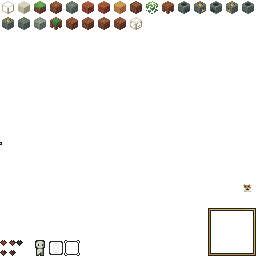
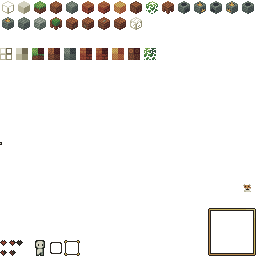
UPDATE

Changed region(s): [[0.0, 0.1875, 0.625, 0.25], [0.1875, 0.9375, 0.25, 1.0]]

diff --git a/src/renderer.cs b/src/renderer.cs
@@ -6,29 +6,32 @@
 
         update();
 
-        drawcalls = 0;
-
         c.Fill(sky);
-        drawcalls++;
         c.DrawRect(0, 0, Window.Width, Window.Height);
 
-        renderworld(c);
-
-        //c.Antialias(false);
+        if (!view3D)
+            renderworld(c);
+        else
+            render3D(c);
 
         c.Fill(Color.White);
-        //c.Font(font);
-        drawcalls++;
         c.DrawAlignedText(round(1/Time.DeltaTime)+" fps", 16, 3,3, Alignment.TopLeft);
-        drawcalls++;
         c.DrawAlignedText("seed "+seed, 16, 3,27, Alignment.TopLeft);
+    }
 
+    static void render3D(ICanvas c) {
+        var canvasShader = new CubeCanvasShader() {
+            tex = atlas,
+        };
 
+        var vertexShader = new CubeVertexShader() {
+            world = Matrix4x4.CreateRotationY(Time.TotalTime*Angle.ToRadians(60)),
+            view = Matrix4x4.CreateLookAtLeftHanded(Vector3.One,Vector3.Zero,Vector3.UnitY),
+            proj = Matrix4x4.CreatePerspectiveFieldOfViewLeftHanded(MathF.PI/3f,c.Width/(float)c.Height,1f,100f) 
+        };
 
-
-
-        drawcalls++;
-        c.DrawAlignedText(drawcalls+" drawcalls", 16, 3,51, Alignment.TopLeft);
+        c.Fill(canvasShader, vertexShader);
+        c.DrawTriangles<Vertex>(vertices);
     }
 
     static void renderworld(ICanvas c) {
@@ -49,18 +52,28 @@
                                 { world[u][v][w].lod.ApplyChanges(); world[u][v][w].appliedtex = true; }
 
                                 if(screenx>-chunklodsizex*(zoom*.5f)&&screeny>-chunklodsizey*(zoom*.5f)&&screenx<Window.Width+chunklodsizex*(zoom*.5f)&&screeny<Window.Height+chunklodsizey*(zoom*.5f)) {
-                                    drawcalls++;
                                     float bright = v*chunksize/((float)chunksize*worldsizey);
-                                    c.DrawTexture(
-                                        world[u][v][w].lod, 
-                                        new Rectangle(
-                                            screenx, screeny,
-                                            world[u][v][w].lod.Width * zoom, 
-                                            world[u][v][w].lod.Height * -zoom, 
-                                            Alignment.Center
-                                        ),
-                                        new ColorF(bright, bright, bright, 1)
-                                    );
+                                    if(hshaded)
+                                        c.DrawTexture(
+                                            world[u][v][w].lod, 
+                                            new Rectangle(
+                                                screenx, screeny,
+                                                world[u][v][w].lod.Width * zoom, 
+                                                world[u][v][w].lod.Height * -zoom, 
+                                                Alignment.Center
+                                            ),
+                                            new ColorF(bright, bright, bright, 1)
+                                        );
+                                    else
+                                        c.DrawTexture(
+                                            world[u][v][w].lod, 
+                                            new Rectangle(
+                                                screenx, screeny,
+                                                world[u][v][w].lod.Width * zoom, 
+                                                world[u][v][w].lod.Height * -zoom, 
+                                                Alignment.Center
+                                            )
+                                        );
                                 }
                             }
                         }
@@ -96,7 +109,6 @@
                                 float screenx = 1920/2+(x*6-z*6)*zoom-cam.X*size, screeny = 1080/2+(-y*6+z*3+x*3)*zoom-cam.Y*size;
 
                                 if(screenx>-size&&screeny>-size&&screenx<Window.Width+size&&screeny<Window.Height+size) {
-                                    drawcalls++;
                                     c.DrawTexture(
                                         atlas,
                                         new Rectangle(world[u][v][w].tiles[x,y,z]*16%256, 240-floor(world[u][v][w].tiles[x,y,z]/16)*16, 16, 16),

diff --git a/src/cube.cs b/src/cube.cs
@@ -1,0 +1,40 @@
+partial class farmlight {
+    static Vertex[] vertices = [
+        new Vertex(new(-0.5f, -0.5f, -0.5f), new(0.0f, 0.0f)),
+        new Vertex(new( 0.5f, -0.5f, -0.5f), new(1.0f, 0.0f)),
+        new Vertex(new( 0.5f,  0.5f, -0.5f), new(1.0f, 1.0f)),
+        new Vertex(new( 0.5f,  0.5f, -0.5f), new(1.0f, 1.0f)),
+        new Vertex(new(-0.5f,  0.5f, -0.5f), new(0.0f, 1.0f)),
+        new Vertex(new(-0.5f, -0.5f, -0.5f), new(0.0f, 0.0f)),
+        new Vertex(new(-0.5f, -0.5f,  0.5f), new(0.0f, 0.0f)),
+        new Vertex(new( 0.5f, -0.5f,  0.5f), new(1.0f, 0.0f)),
+        new Vertex(new( 0.5f,  0.5f,  0.5f), new(1.0f, 1.0f)),
+        new Vertex(new( 0.5f,  0.5f,  0.5f), new(1.0f, 1.0f)),
+        new Vertex(new(-0.5f,  0.5f,  0.5f), new(0.0f, 1.0f)),
+        new Vertex(new(-0.5f, -0.5f,  0.5f), new(0.0f, 0.0f)),
+        new Vertex(new(-0.5f,  0.5f,  0.5f), new(1.0f, 0.0f)),
+        new Vertex(new(-0.5f,  0.5f, -0.5f), new(1.0f, 1.0f)),
+        new Vertex(new(-0.5f, -0.5f, -0.5f), new(0.0f, 1.0f)),
+        new Vertex(new(-0.5f, -0.5f, -0.5f), new(0.0f, 1.0f)),
+        new Vertex(new(-0.5f, -0.5f,  0.5f), new(0.0f, 0.0f)),
+        new Vertex(new(-0.5f,  0.5f,  0.5f), new(1.0f, 0.0f)),
+        new Vertex(new( 0.5f,  0.5f,  0.5f), new(1.0f, 0.0f)),
+        new Vertex(new( 0.5f,  0.5f, -0.5f), new(1.0f, 1.0f)),
+        new Vertex(new( 0.5f, -0.5f, -0.5f), new(0.0f, 1.0f)),
+        new Vertex(new( 0.5f, -0.5f, -0.5f), new(0.0f, 1.0f)),
+        new Vertex(new( 0.5f, -0.5f,  0.5f), new(0.0f, 0.0f)),
+        new Vertex(new( 0.5f,  0.5f,  0.5f), new(1.0f, 0.0f)),
+        new Vertex(new(-0.5f, -0.5f, -0.5f), new(0.0f, 1.0f)),
+        new Vertex(new( 0.5f, -0.5f, -0.5f), new(1.0f, 1.0f)),
+        new Vertex(new( 0.5f, -0.5f,  0.5f), new(1.0f, 0.0f)),
+        new Vertex(new( 0.5f, -0.5f,  0.5f), new(1.0f, 0.0f)),
+        new Vertex(new(-0.5f, -0.5f,  0.5f), new(0.0f, 0.0f)),
+        new Vertex(new(-0.5f, -0.5f, -0.5f), new(0.0f, 1.0f)),
+        new Vertex(new(-0.5f,  0.5f, -0.5f), new(0.0f, 1.0f)),
+        new Vertex(new( 0.5f,  0.5f, -0.5f), new(1.0f, 1.0f)),
+        new Vertex(new( 0.5f,  0.5f,  0.5f), new(1.0f, 0.0f)),
+        new Vertex(new( 0.5f,  0.5f,  0.5f), new(1.0f, 0.0f)),
+        new Vertex(new(-0.5f,  0.5f,  0.5f), new(0.0f, 0.0f)),
+        new Vertex(new(-0.5f,  0.5f, -0.5f), new(0.0f, 1.0f))
+    ];
+}

diff --git a/src/shaders.cs b/src/shaders.cs
@@ -1,0 +1,39 @@
+partial class farmlight {
+    class CubeCanvasShader : CanvasShader {
+        [VertexShaderOutput]
+        Vector2 uv;
+
+        public ITexture tex;
+
+        public override ColorF GetPixelColor(Vector2 position) {
+            ColorF x = /*tex.SampleUV(uv)*/ new ColorF(uv.X, uv.Y, 0, 1);
+            if (x.A < 0.001f)
+                ShaderIntrinsics.Discard();
+            return x;
+        }
+    }
+
+    class CubeVertexShader : VertexShader {
+        [VertexData]
+        Vertex vertex;
+
+        public Matrix4x4 world;
+        public Matrix4x4 view;
+        public Matrix4x4 proj;
+
+        [VertexShaderOutput]
+        Vector2 uv;
+
+        [UseClipSpace]
+        public override Vector4 GetVertexPosition() {
+            Vector4 result = new(vertex.Position, 1);
+            result = Vector4.Transform(result, world);
+            result = Vector4.Transform(result, view);
+            result = Vector4.Transform(result, proj);
+
+            uv = vertex.Texture;
+
+            return result;
+        }
+    }
+}

diff --git a/src/vars.cs b/src/vars.cs
@@ -14,9 +14,6 @@
     static int maxasynccalls = 96;
     static int renderdist = 6;
 
-    //data
-    static uint drawcalls;
-
     //worldgen
     static int chunksize = 12;
     static perlin perl;
@@ -35,4 +32,10 @@
     //sky
     static Color skyL = new Color(111,183,171);
     static Color skyD = new Color(83,151,153);
+
+    //shading
+    static bool hshaded = false;
+
+    //3D
+    static bool view3D;
 }

diff --git a/src/init.cs b/src/init.cs
@@ -5,7 +5,7 @@
         world = new listTS<listTS<listTS<chunk>>>();
         Simulation.SetFixedResolution(1920,1080,Color.Black,false,false,true);
         initperlin();
-        //font = Graphics.LoadFont(@"assets\noita.ttf");
         mapexpand();
+        atlas.WrapModeY = atlas.WrapModeX = TileMode.Repeat;
     }
 }

diff --git a/src/usings.cs b/src/usings.cs
@@ -1,5 +1,6 @@
 global using SimulationFramework;
-global using SimulationFramework.Desktop;
 global using SimulationFramework.Drawing;
 global using SimulationFramework.Input;
 global using System.Numerics;
+global using SimulationFramework.Drawing.Shaders;
+global using SimulationFramework.Drawing.Shaders.Compiler;

diff --git a/src/vertex.cs b/src/vertex.cs
@@ -1,0 +1,11 @@
+partial class farmlight {  
+    struct Vertex { 
+        public Vector3 Position;
+        public Vector2 Texture;
+
+        public Vertex(Vector3 position, Vector2 texture) {
+            this.Position = position;
+            this.Texture = texture;
+        }
+    }
+}

diff --git a/src/updater.cs b/src/updater.cs
@@ -25,5 +25,8 @@
         zoomact += Mouse.ScrollWheelDelta/3;
         zoomact = clamp(zoomact,1,6);
         zoom = dtween(zoom, zoomact, 12);
+
+        if (Keyboard.IsKeyPressed(Key.C))
+            view3D = !view3D;
     }
 }
